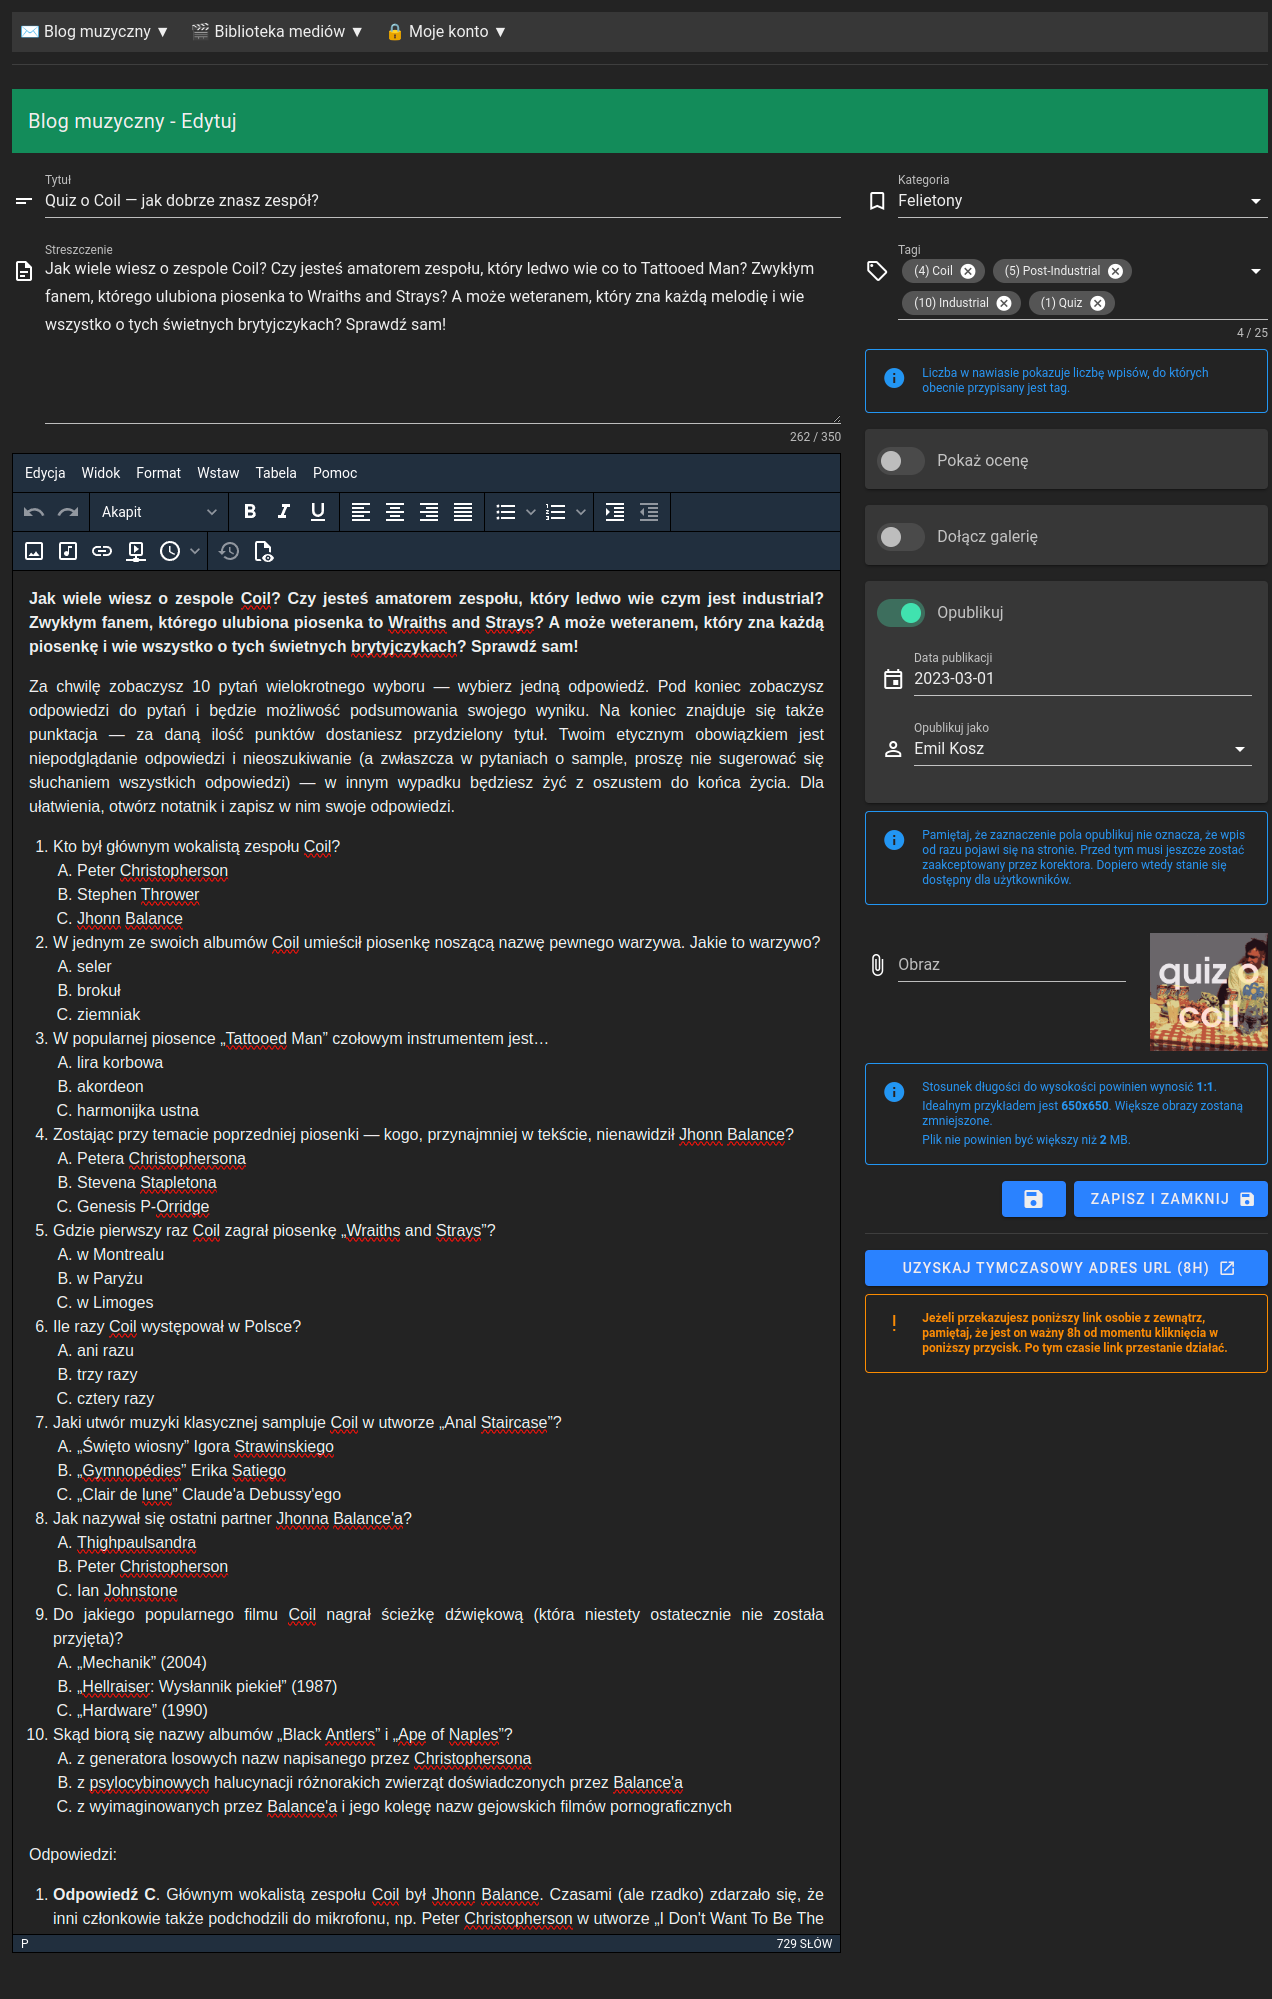
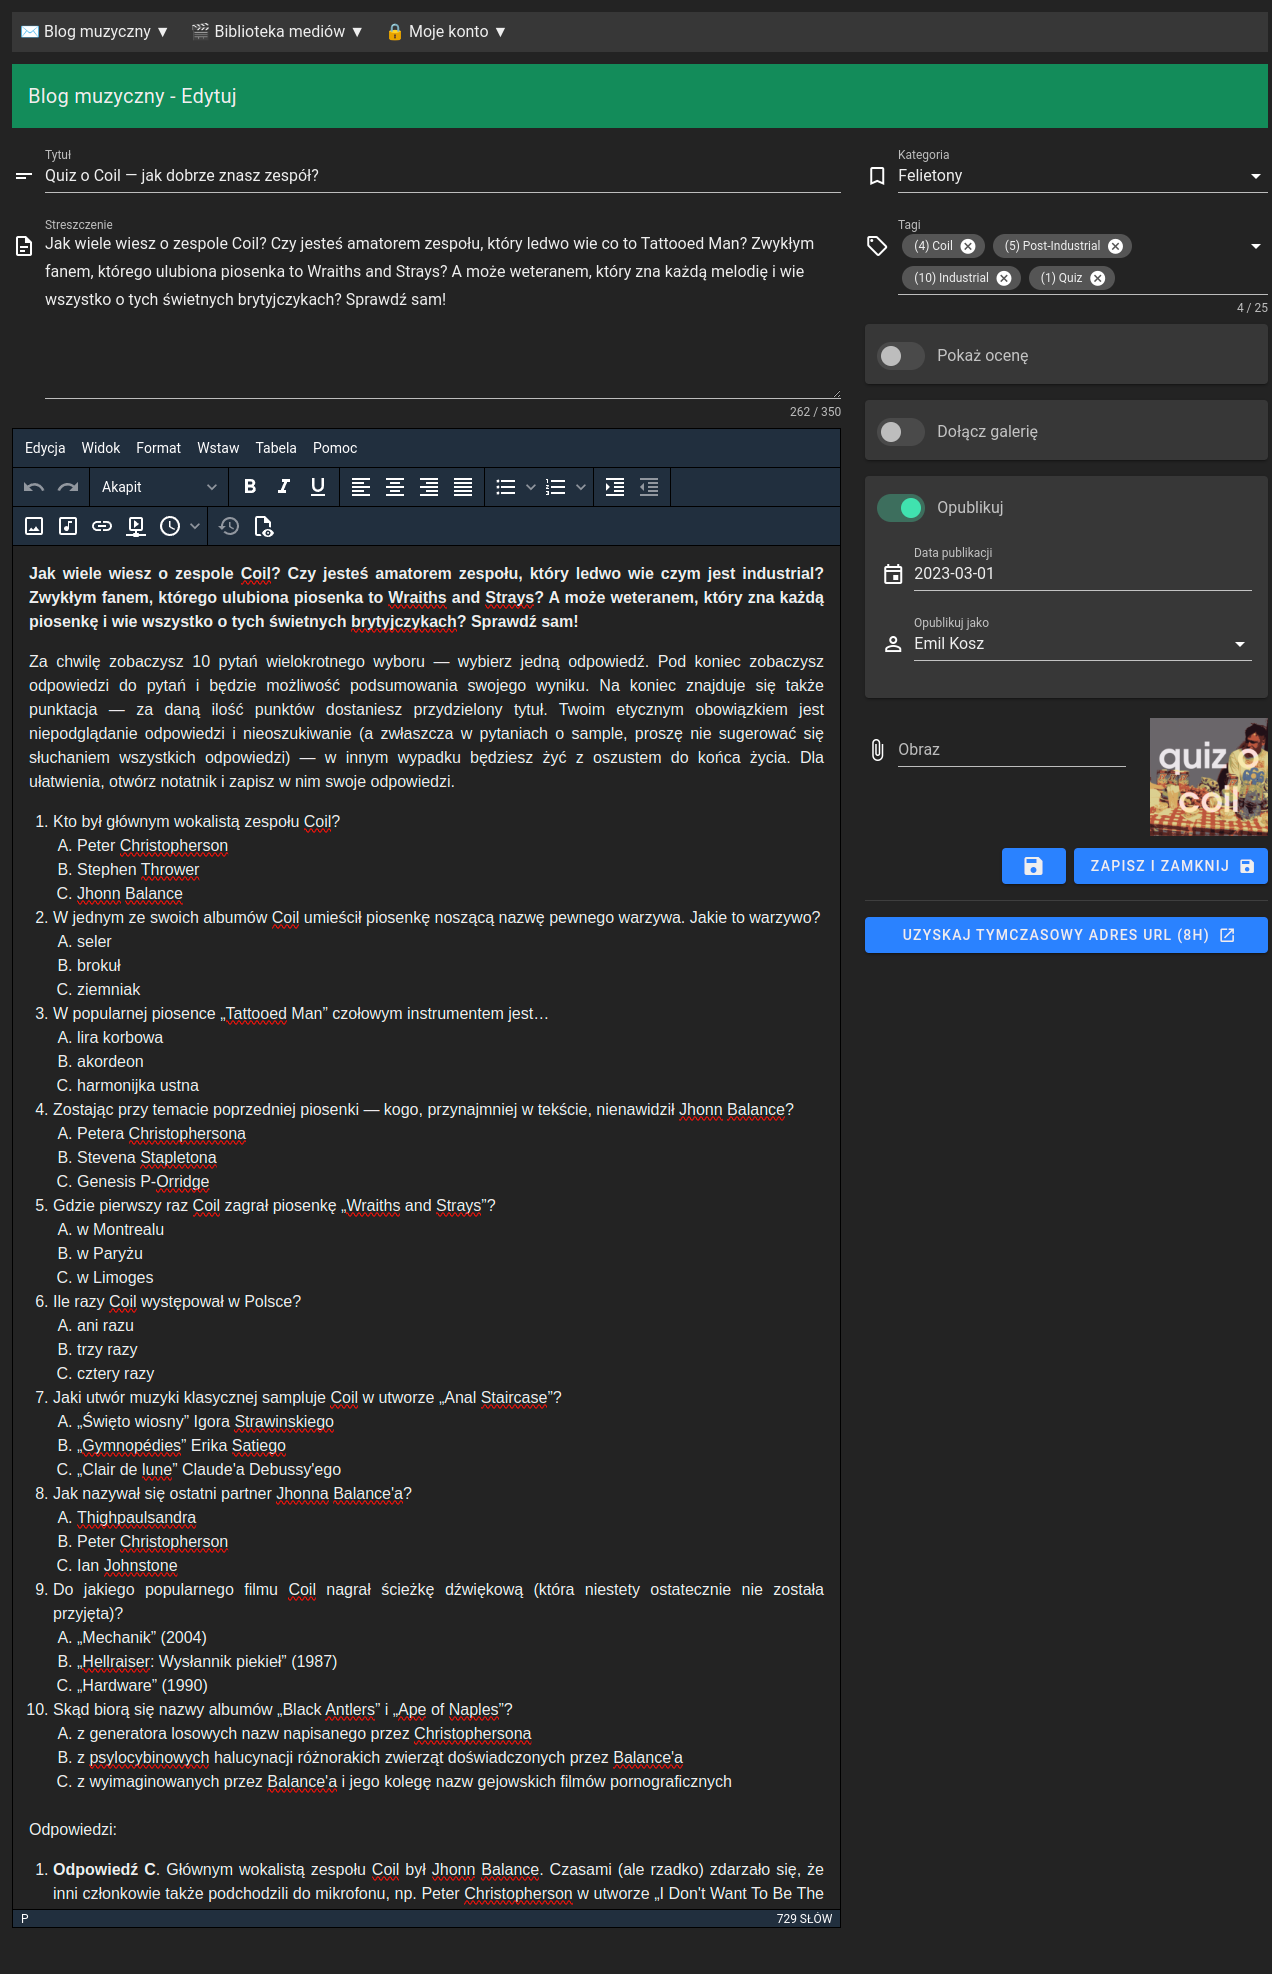
Małe zmiany

diff --git a/zawartosc.css b/zawartosc.css
@@ -23,6 +23,7 @@
 .dd-dropdown-content a {
 	padding: 8px;
 	display: block;
+	color: inherit !important;
 }
 
 .dd-dropdown-content a:hover {
@@ -42,6 +43,11 @@
 	display: none !important;
 }
 
+/* HR */
+#app > div > main > div > div.container.container--fluid > hr {
+	display: none !important;
+}
+
 /* Sidebar. */
 #app > div > main > div > div.container.container--fluid > div:nth-child(4) > aside {
 	display: none !important;
@@ -51,4 +57,20 @@
 #app > div > main > div > div.container.container--fluid > div:nth-child(4) > div {
 	flex: 0 0 100%;
 	max-width: 100%;
+}
+
+/* Podpowiedzi */
+div .hint {
+	display: none;
+}
+
+/* Zmienić rozmiar flexów */
+#app > div > main > div > div.container.container--fluid > div:nth-child(4) > div > section > form > div > div.col-md-8.col-12 {
+	flex: 0 0 75%;
+	max-width: 75%;
+}
+
+#app > div > main > div > div.container.container--fluid > div:nth-child(4) > div > section > form > div > div.col-md-4.col-12 {
+	flex: 0 0 25%;
+	max-width: 25%;
 }
